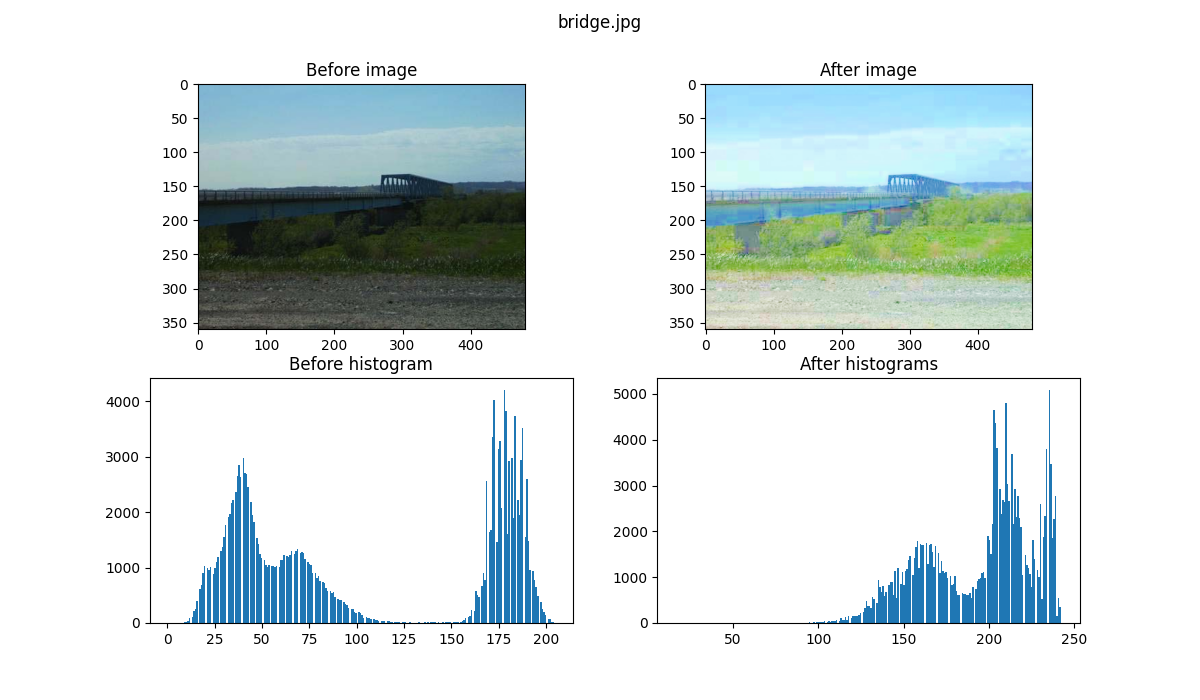
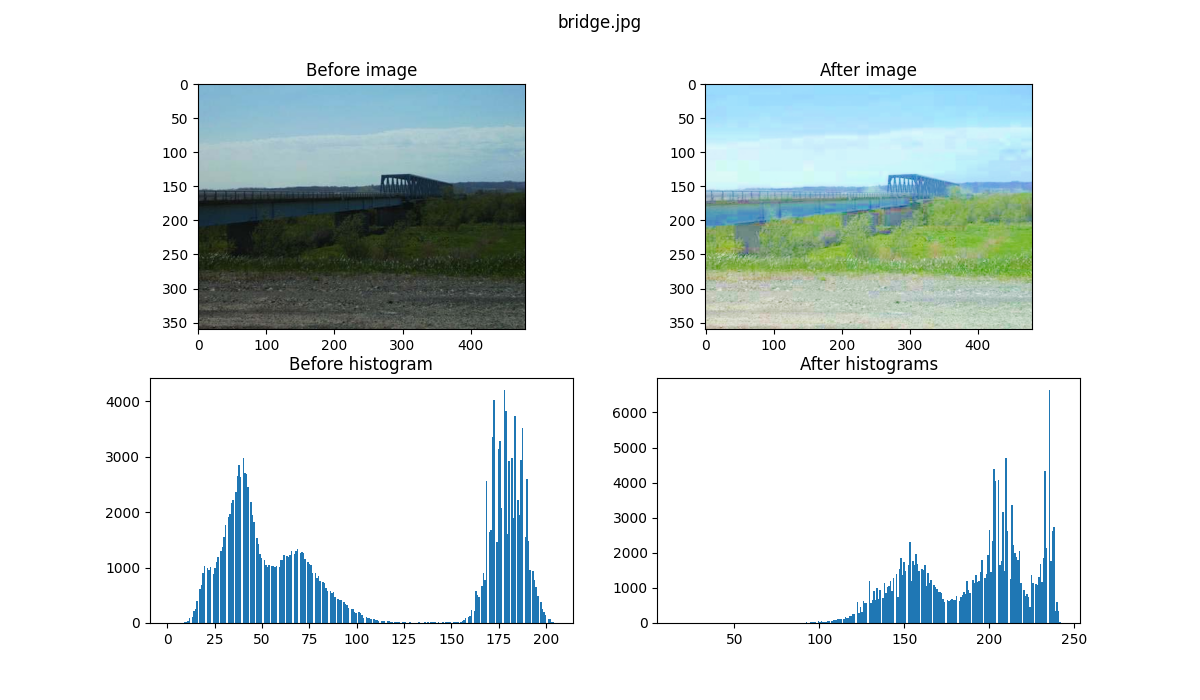
Update for local mean

diff --git a/functions/local_correlation_of_intensity_saturation.py b/functions/local_correlation_of_intensity_saturation.py
@@ -2,13 +2,22 @@ import cv2 as cv
 import numpy as np
 
 def local_correlation_of_intensity_saturation(s, v):
-    s_mean = s.mean()
-    v_mean = v.mean()
+    # Gobally mean
+    # s_mean = s.mean()
+    # v_mean = v.mean()
+    # 論文裡特別寫了是「local mean of intensity and saturation」
+    # 所以這邊修改成每一圈都要重新計算平均值
+    s = s.astype(np.float64)
+    v = v.astype(np.float64)
     corr = np.zeros_like(v).astype(np.float64)
     for i in range(2, v.shape[0]-2):
         for j in range(2, v.shape[1]-2):
-            v_block = v[i-2:i+3, j-2:j+3] - v_mean
-            s_block = s[i-2:i+3, j-2:j+3] - s_mean
+            # v_block = v[i-2:i+3, j-2:j+3] - v_mean
+            # s_block = s[i-2:i+3, j-2:j+3] - s_mean
+            v_block = v[i-2:i+3, j-2:j+3]
+            s_block = s[i-2:i+3, j-2:j+3]
+            v_block -= v_block.mean()
+            s_block -= s_block.mean()
             cov_xy = np.sum(v_block * s_block)
             var_x = np.sum(v_block**2)
             var_y = np.sum(s_block**2)
